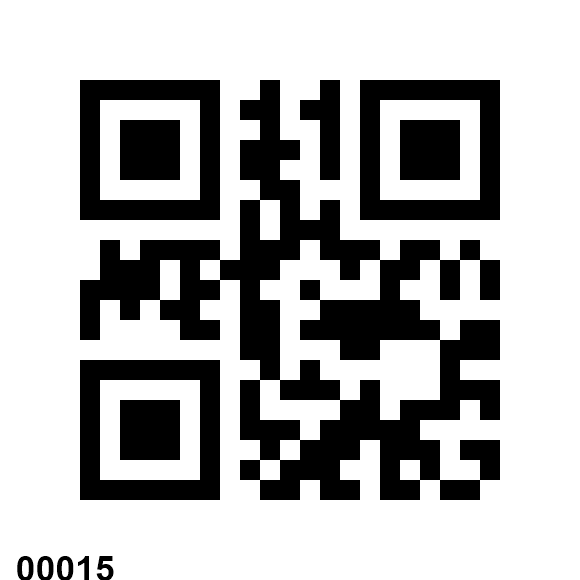
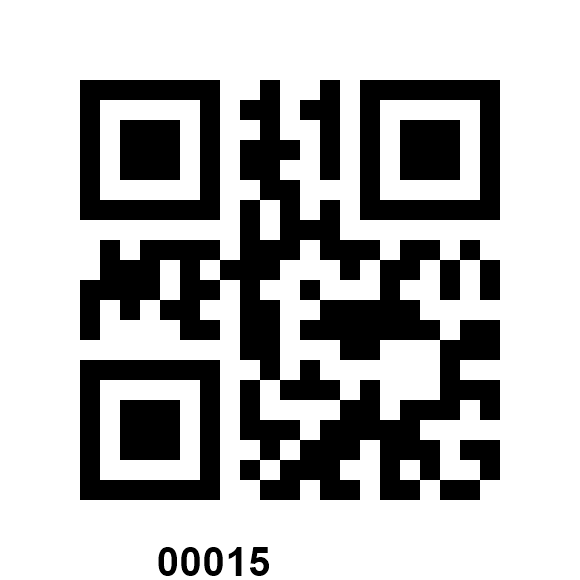
FANG 1107 07162024

Changed region(s): [[0.2483, 0.931, 0.4655, 0.9931], [0.031, 0.9621, 0.2172, 1.0]]

diff --git a/Controllers/MasterController.cs b/Controllers/MasterController.cs
@@ -6277,12 +6277,12 @@ namespace Plims.Controllers
                 SolidBrush brush = new SolidBrush(System.Drawing.Color.Black);
 
                 // Calculate where to draw the text
-                float x = 150; // Left margin
+                float x = 160; // Left margin
                 float y = qrBitmap.Height - 40; // Position at the bottom
 
                 g.DrawString(labelText, font, brush, new System.Drawing.PointF(x, y)); // Draw the label
             }
-
+         
             byte[] bitmapArray;
             using (MemoryStream stream = new MemoryStream())
             {
@@ -7293,7 +7293,7 @@ namespace Plims.Controllers
                     tbEmployeeGroupQR = db.TbEmployeeGroupQR.Where(x => x.PlantID.Equals(PlantID)).ToList(),
                     tbEmployeeMaster = db.TbEmployeeMaster.Where(x => x.PlantID.Equals(PlantID)).ToList(),
                     view_EmployeeGroup = db.View_EmployeeGroup.Where(x => x.PlantID.Equals(PlantID)).ToList(),
-                    view_EmployeeGroupList = db.View_EmployeeGroupList.Where(x => x.PlantID.Equals(PlantID)).ToList(),
+                    view_EmployeeGroupList = db.View_EmployeeGroupList.Where(x => x.PlantID.Equals(PlantID)).OrderByDescending(x => x.Status).ToList(),
 
 
                 };
@@ -7345,7 +7345,7 @@ namespace Plims.Controllers
             // var Emp = db.View_EmployeeGroup.Where(x=>x.GroupID.EndsWith(id)).ToList();
 
 
-            var Empgrupdb = db.TbEmployeeGroupQR.Where(p => p.GroupID.Equals(id.PadLeft(5, '0')) && p.Status.Equals(1)).ToList();
+            var Empgrupdb = db.TbEmployeeGroupQR.Where(p => p.PlantID.Equals(PlantID) && p.GroupID.Equals(id.PadLeft(5, '0')) && p.Status.Equals(1)).ToList();
             foreach (var items in Empgrupdb)
             {
                 db.Temp_Group.Add(new Temp_Group()
@@ -7494,8 +7494,7 @@ namespace Plims.Controllers
             //ViewBag.QrCodeUri = QrUri;
             ViewBag.GroupID = qRCode.GroupID;
             ViewBag.QRCodeGenerated = true;
-
-
+         
             var mymodel = new ViewModelAll()
             {
                 view_PermissionMaster = db.View_PermissionMaster.ToList(),
@@ -7601,7 +7600,7 @@ namespace Plims.Controllers
                 tbEmployeeGroupQR = db.TbEmployeeGroupQR.Where(x => x.PlantID.Equals(PlantID)).ToList(),
                 tbEmployeeMaster = db.TbEmployeeMaster.Where(x => x.PlantID.Equals(PlantID)).ToList(),
                 view_EmployeeGroup = db.View_EmployeeGroup.Where(x => x.PlantID.Equals(PlantID)).ToList(),
-                view_EmployeeGroupList = db.View_EmployeeGroupList.Where(x => x.PlantID.Equals(PlantID)).ToList(),
+                view_EmployeeGroupList = db.View_EmployeeGroupList.Where(x => x.PlantID.Equals(PlantID)).OrderByDescending(x=>x.Status).ToList(),
 
             };
 
@@ -8332,13 +8331,13 @@ namespace Plims.Controllers
             using (Graphics g = Graphics.FromImage(qrBitmap))
             {
                 g.TextRenderingHint = TextRenderingHint.AntiAlias; // For smooth text
-                Font font = new Font("Arial", 26, FontStyle.Bold);
+                Font font = new Font("Arial", 30, FontStyle.Bold);
                 SolidBrush brush = new SolidBrush(System.Drawing.Color.Black);
 
                 // Calculate where to draw the text
-                float x = 10; // Left margin
-                float y = qrBitmap.Height - 30; // Position at the bottom
-
+                float x = 150; // Left margin
+                float y = qrBitmap.Height - 40; // Position at the bottom
+         
                 g.DrawString(labelText, font, brush, new System.Drawing.PointF(x, y)); // Draw the label
             }
 
@@ -8370,12 +8369,21 @@ namespace Plims.Controllers
             //  string directoryPaths = Server.MapPath("~/qrcodes");
 
             // Assign the URI to the ViewBag
+            //ViewData["QrCodeUri"] = QrUri;
+            //ViewBag.EmployeeID = qrCodeText; //qRCode.EmployeeID;
+            //ViewBag.QRCodeGenerated = true;
+            //fgfgfdg
+
+            //return Content(QrUri = QrUri, employeeID = qrCodeText);
+
+
+            // Assign the URI to the ViewBag
             ViewData["QrCodeUri"] = QrUri;
             ViewBag.EmployeeID = qrCodeText; //qRCode.EmployeeID;
             ViewBag.QRCodeGenerated = true;
 
 
-            return Content(QrUri = QrUri, employeeID = qrCodeText);
+            return Content(QrUri);
 
         }
 

diff --git a/Controllers/EmployeeController.cs b/Controllers/EmployeeController.cs
@@ -1577,7 +1577,13 @@ namespace Plims.Controllers
             // Create Function
             int datacnt = EmployeeIDchk.Count();
             // decimal rateservicecheck = 0.0;
+            //Check Date and Time
+            if(obj.TransactionDate == DateTime.MinValue || obj.ClockIn == null )
+            {
+                TempData["AlertMessage"] = "Please input time and date to clock-in!";
+                return View("ServicesClockIn", Employee);
 
+            }
             List<TableDataRow> tableRows = JsonConvert.DeserializeObject<List<TableDataRow>>(TableData);
             var distinctServices = new HashSet<decimal>();
             int j = 0;
